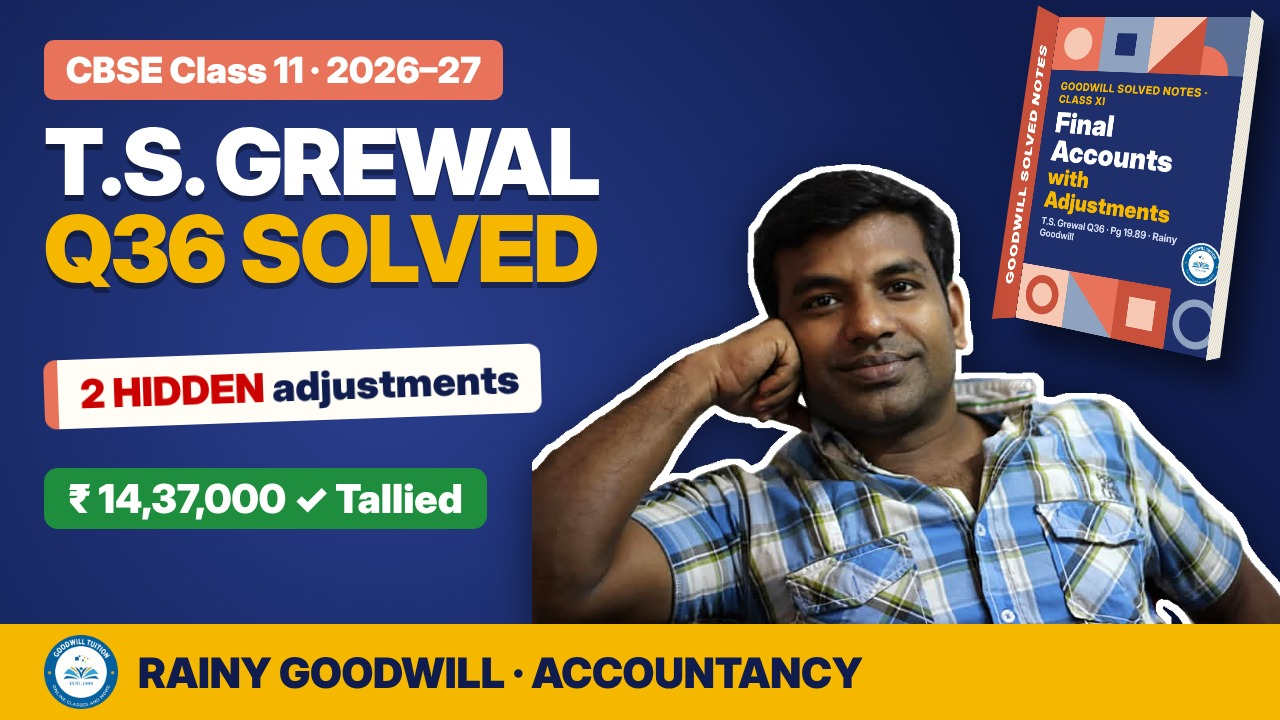
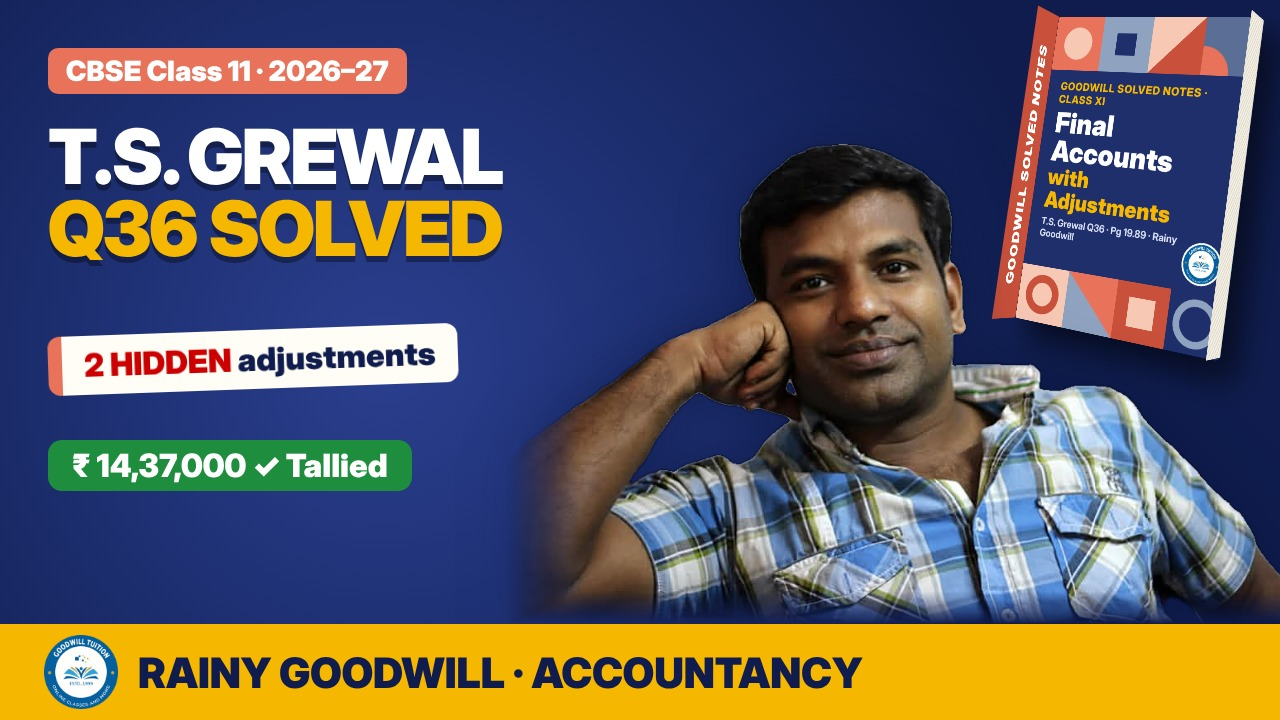
Photo thumbnail: no outline, soft blended edges, smaller left text
Claude-Session: https://claude.ai/code/session_01LWtYoHkoqTVzFHMa89pMii

diff --git a/videos/tsg-ch19-q36/upload/thumbnail_photo.html b/videos/tsg-ch19-q36/upload/thumbnail_photo.html
@@ -3,12 +3,12 @@
 * { margin: 0; padding: 0; box-sizing: border-box; }
 body { width: 1280px; height: 720px; overflow: hidden; font-family: "Inter Display", "Inter", sans-serif; background: radial-gradient(circle at 30% 50%, #2A3F8F 0, #0F1C4D 70%); position: relative; }
 /* left text */
-.tag { position: absolute; left: 44px; top: 40px; background: #E8735A; color: #fff; font-weight: 900; font-size: 36px; padding: 8px 22px; border-radius: 10px; }
-.h1 { position: absolute; left: 44px; top: 118px; color: #fff; font-weight: 900; font-size: 92px; z-index: 5; line-height: 0.95; letter-spacing: -2px; text-shadow: 0 6px 0 rgba(0,0,0,0.35); }
+.tag { position: absolute; left: 48px; top: 48px; background: #E8735A; color: #fff; font-weight: 900; font-size: 28px; padding: 6px 18px; border-radius: 10px; }
+.h1 { position: absolute; left: 48px; top: 120px; color: #fff; font-weight: 900; font-size: 76px; z-index: 5; line-height: 0.95; letter-spacing: -2px; text-shadow: 0 6px 0 rgba(0,0,0,0.35); }
 .h1 .y { color: #F5B700; }
-.trap { position: absolute; left: 44px; top: 352px; z-index: 5; background: #FFFDF5; color: #0F1C4D; border-left: 14px solid #E8735A; border-radius: 12px; padding: 10px 22px; font-weight: 900; font-size: 40px; transform: rotate(-2deg); }
+.trap { position: absolute; left: 48px; top: 330px; z-index: 5; background: #FFFDF5; color: #0F1C4D; border-left: 14px solid #E8735A; border-radius: 12px; padding: 10px 22px; font-weight: 900; font-size: 32px; transform: rotate(-2deg); }
 .trap span { color: #CC0000; }
-.chip { position: absolute; left: 44px; top: 468px; z-index: 5; background: #1E8E3E; color: #fff; font-weight: 900; font-size: 40px; padding: 6px 24px; border-radius: 14px; }
+.chip { position: absolute; left: 48px; top: 440px; z-index: 5; background: #1E8E3E; color: #fff; font-weight: 900; font-size: 32px; padding: 6px 24px; border-radius: 14px; }
 .bar { position: absolute; left: 0; right: 0; bottom: 0; height: 96px; background: #F5B700; display: flex; align-items: center; padding: 0 44px; gap: 20px; }
 .bar img { width: 74px; height: 74px; } .bar .bt { font-weight: 900; font-size: 42px; color: #0F1C4D; }
 /* 3D book */
@@ -28,14 +28,14 @@ body { width: 1280px; height: 720px; overflow: hidden; font-family: "Inter Displ
 .cov .ti2 { font-size: 40px; font-weight: 900; color: #F5B700; line-height: 1.05; }
 .cov .sm { font-size: 18px; font-weight: 700; margin-top: 8px; color: #D7DEF5; }
 .logo { position: absolute; right: 18px; bottom: 112px; width: 70px; height: 70px; border-radius: 50%; background: #fff; padding: 3px; }
-.me { position: absolute; right: -20px; bottom: 96px; height: 470px; z-index: 3; filter: drop-shadow(0 10px 22px rgba(0,0,0,0.55)); }
+.me { position: absolute; right: -20px; bottom: 96px; height: 480px; z-index: 3; filter: drop-shadow(0 0 28px rgba(10,20,60,0.55)); }
 .bar { z-index: 6; }
 </style></head><body>
 <div class="tag">CBSE Class 11 · 2026–27</div>
 <div class="h1">T.S. GREWAL<br><span class="y">Q36 SOLVED</span></div>
 <div class="trap"><span>2 HIDDEN</span> adjustments</div>
 <div class="chip">₹ 14,37,000 ✓ Tallied</div>
-<img class="me" src="../../../tools/thumb/rainy_outline.png" alt="">
+<img class="me" src="../../../tools/thumb/rainy_soft.png" alt="">
 <div class="scene"><div class="book">
   <div class="pages"></div>
   <div class="spine"><span>GOODWILL SOLVED NOTES</span></div>
